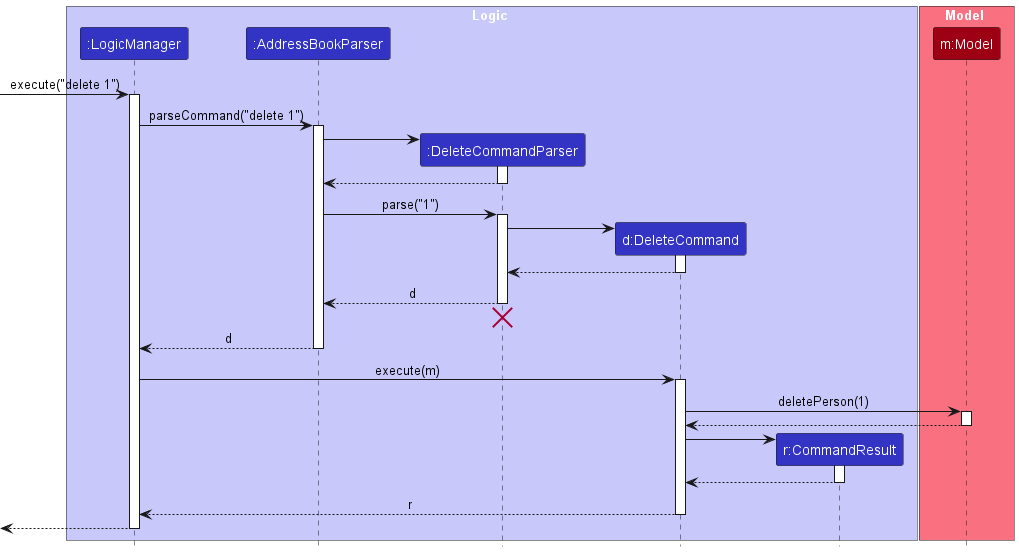
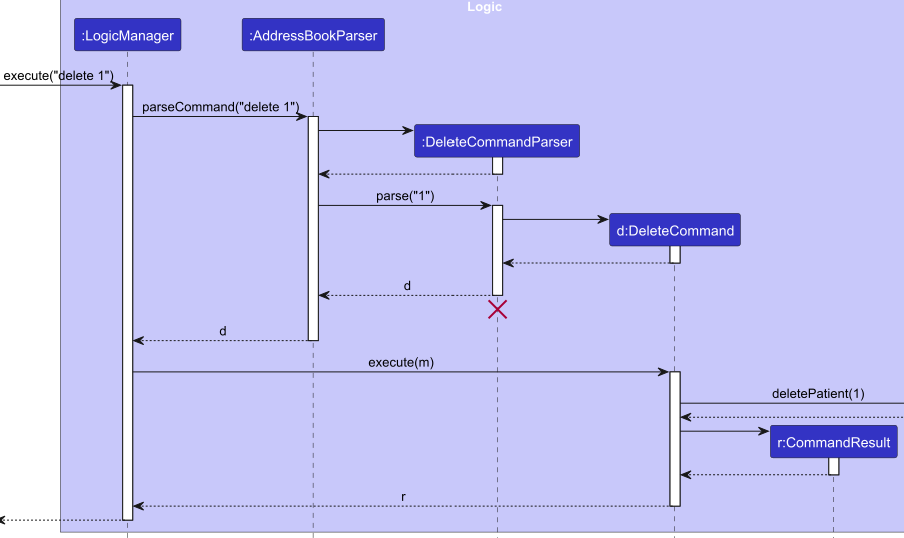
Update DG

Changed region(s): [[0.0, 0.0, 1.0, 1.0]]

diff --git a/src/main/java/seedu/address/model/ModelManager.java b/src/main/java/seedu/address/model/ModelManager.java
@@ -33,7 +33,7 @@ public class ModelManager implements Model {
 
         this.addressBook = new AddressBook(addressBook);
         this.userPrefs = new UserPrefs(userPrefs);
-        filteredPatients = new FilteredList<>(this.addressBook.getPatientList());
+        filteredPatients = new FilteredList<>(this.addressBook.getpatientList());
     }
 
     public ModelManager() {

diff --git a/docs/DeveloperGuide.md b/docs/DeveloperGuide.md
@@ -2,6 +2,53 @@
 layout: page
 title: Developer Guide
 ---
+## Table of Contents
+1. [Developer Guide](#developer-guide)
+2. [Acknowledgements](#acknowledgements)
+3. [Setting up, getting started](#setting-up-getting-started)
+4. [Design](#design)
+    - [Architecture](#architecture)
+    - [UI component](#ui-component)
+    - [Logic component](#logic-component)
+    - [Special Case: ClearCommandParser](#special-case-clearcommandparser-)
+    - [Model component](#model-component)
+    - [Storage component](#storage-component)
+    - [Common classes](#common-classes)
+5. [Implementation](#implementation)
+    - [Sort feature](#sort-feature)
+        - [Current Implementation](#current-implementation)
+        - [Class Structure](#class-structure)
+        - [SortCommand](#sortcommand)
+        - [SortCommandParser](#sortcommandparser)
+        - [Logic Interface](#logic-interface)
+        - [LogicManager](#logicmanager)
+        - [Model Interface](#model-interface)
+        - [ModelManager](#modelmanager)
+        - [Execution Flow](#execution-flow)
+        - [Design considerations](#design-considerations)
+        - [Interactions with other features](#interactions-with-other-features)
+6. [Proposed Enhancements](#proposed-enhancements)
+    - [Undo/redo feature](#proposed-undoredo-feature)
+        - [Proposed Implementation](#proposed-implementation)
+        - [Design considerations](#design-considerations-1)
+    - [Data archiving](#proposed-data-archiving)
+7. [Documentation, logging, testing, configuration, dev-ops](#documentation-logging-testing-configuration-dev-ops)
+8. [Appendix: Requirements](#appendix-requirements)
+    - [Product scope](#product-scope)
+    - [User stories](#user-stories)
+    - [Use cases](#use-cases)
+        - [UC01 List all students under User](#use-case-uc01-list-all-students-under-user)
+        - [UC02 Delete a student](#use-case-uc02-delete-a-student)
+        - [UC03 Add a student](#use-case-uc03-add-a-student)
+    - [Non-Functional Requirements](#non-functional-requirements)
+    - [Prof-iler](#prof-iler)
+    - [Glossary](#glossary)
+    - [Project](#project-the-title-of-the-research-project-a-student-is-working-on)
+9. [Appendix: Instructions for manual testing](#appendix-instructions-for-manual-testing)
+    - [Launch and shutdown](#launch-and-shutdown)
+    - [Deleting a student](#deleting-a-student)
+    - [Saving data](#saving-data)
+
 ## **Acknowledgements**
 
 * We would like to acknowledge the following repository as the foundational starting point for our project:
@@ -24,7 +71,9 @@ bulb: **Tip:** The `.puml` files used to create diagrams in this document `docs/
 
 ### Architecture
 
-<img src="images/ArchitectureDiagram.png" width="280" />
+<div align="center">
+  <img src="images/ArchitectureDiagram.png" width="280" />
+</div>
 
 The ***Architecture Diagram*** given above explains the high-level design of the App.
 
@@ -58,7 +107,9 @@ Each of the four main components (also shown in the diagram above),
 
 For example, the `Logic` component defines its API in the `Logic.java` interface and implements its functionality using the `LogicManager.java` class which follows the `Logic` interface. Other components interact with a given component through its interface rather than the concrete class (reason: to prevent outside component's being coupled to the implementation of a component), as illustrated in the (partial) class diagram below.
 
-<img src="images/ComponentManagers.png" width="300" />
+<div align="center">
+  <img src="images/ComponentManagers.png" width="300" />
+</div>
 
 The sections below give more details of each component.
 
@@ -66,7 +117,9 @@ The sections below give more details of each component.
 
 The **API** of this component is specified in [`Ui.java`](https://github.com/se-edu/addressbook-level3/tree/master/src/main/java/seedu/address/ui/Ui.java)
 
-![Structure of the UI Component](images/UiClassDiagram.png)
+<div align="center">
+  <img src="images/UiClassDiagram.png" alt="Structure of the UI Component" />
+</div>
 
 The UI consists of a `MainWindow` that is made up of parts e.g.`CommandBox`, `ResultDisplay`, `PatientListPanel`, `StatusBarFooter` etc. All these, including the `MainWindow`, inherit from the abstract `UiPart` class which captures the commonalities between classes that represent parts of the visible GUI.
 
@@ -97,10 +150,10 @@ The sequence diagram below illustrates the interactions within the `Logic` compo
 How the `Logic` component works:
 
 1. When `Logic` is called upon to execute a command, it is passed to an `AddressBookParser` object which in turn creates a parser that matches the command (e.g., `DeleteCommandParser`) and uses it to parse the command.
-1. This results in a `Command` object (more precisely, an object of one of its subclasses e.g., `DeleteCommand`) which is executed by the `LogicManager`.
-1. The command can communicate with the `Model` when it is executed (e.g. to delete a patient).<br>
+2. This results in a `Command` object (more precisely, an object of one of its subclasses e.g., `DeleteCommand`) which is executed by the `LogicManager`.
+3. The command can communicate with the `Model` when it is executed (e.g. to delete a patient).<br>
    Note that although this is shown as a single step in the diagram above (for simplicity), in the code it can take several interactions (between the command object and the `Model`) to achieve.
-1. The result of the command execution is encapsulated as a `CommandResult` object which is returned back from `Logic`.
+4. The result of the command execution is encapsulated as a `CommandResult` object which is returned back from `Logic`.
 
 Here are the other classes in `Logic` (omitted from the class diagram above) that are used for parsing a user command:
 
@@ -118,7 +171,7 @@ How the parsing works:
 
 The `Model` component,
 
-* stores the patients' data i.e., all `patient` objects (which are contained in a `UniquepatientList` object).
+* stores the patients' data i.e., all `patient` objects (which are contained in a `UniquePatientList` object).
 * stores the currently 'selected' `patient` objects (e.g., results of a search query) as a separate _filtered_ list which is exposed to outsiders as an unmodifiable `ObservableList<patient>` that can be 'observed' e.g. the UI can be bound to this list so that the UI automatically updates when the data in the list change.
 * stores a `UserPref` object that represents the user’s preferences. This is exposed to the outside as a `ReadOnlyUserPref` objects.
 * does not depend on any of the other three components (as the `Model` represents data entities of the domain, they should make sense on their own without depending on other components)

diff --git a/docs/UserGuide.md b/docs/UserGuide.md
@@ -150,8 +150,7 @@ Adds a patient to the patient contact book.
 * For more information on the input requirements for each field, please refer to the [Input Requirements](#input-requirements)
 <div markdown="span" class="alert alert-primary">:bulb: Tip:
 A patient can have any number of tags (including 0).
-</div> <div markdown="span" class="alert alert-warning">:warning: 
-**Warning:** Do not add `t/all`, as untagging `t/all` will remove all tags from that specific patient.
+</div> <div markdown="span" class="alert alert-warning">:warning:
 </div>
 
 **Examples:**
